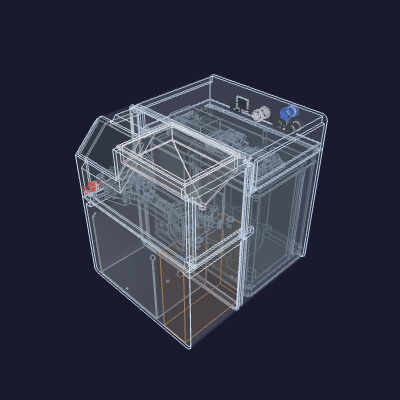
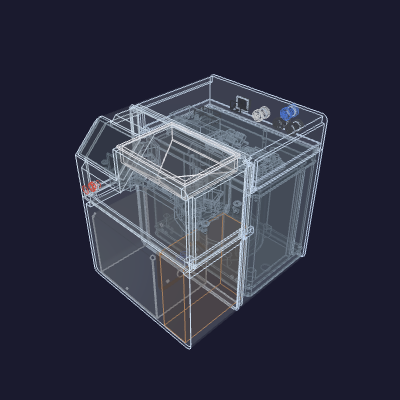
enclosure: source-select assembly +15 aft, clear of the display — the rise reaches the funnel

Changed region(s): [[0.24, 0.33, 0.6, 0.63]]

diff --git a/hardware/printed-parts/enclosure/enclosure-assembly/scorecard.py b/hardware/printed-parts/enclosure/enclosure-assembly/scorecard.py
@@ -226,15 +226,14 @@ PLACEMENT_RULES = {
     "compressor-shroud": [("y-", 1.0), ("z-", 4.0), ("x-", 15.0)],
     # "Condenser is front-right on the floor" (inset one corner-rib chain off the right wall).
     "condenser+fan":     [("y-", 1.0), ("z-", 4.0), ("x+", 15.0)],
-    # "The assembly rides the rise's physical cap": its front tall wall tops one
-    # clearance under the display PCB body's low-front underside — the exact-gap bound
-    # that pins the raised height. Its relation to the funnel above is the open nesting
-    # question (the display cap stops V-A's edge short of the ramp) and carries no rule
-    # until it is resolved.
-    "source-select-assembly": [("near", "display", 1.5)],
+    # "The assembly is pinned between funnel and display": raised until the rotated
+    # funnel's loft caps the rise one clearance over the east bank's wall tops, and
+    # shifted aft only as far as the display body's low-front underside demands — both
+    # exact-gap bounds on the real solids.
+    "source-select-assembly": [("near", "hopper-funnel", 1.5), ("near", "display", 1.5)],
     # "The funnel rides the top wall" — brim top one brim thickness + one wall above the
-    # interior ceiling.
-    "hopper-funnel":     [("z+", 6.1)],
+    # interior ceiling — "and its loft caps the assembly's rise".
+    "hopper-funnel":     [("z+", 6.1), ("near", "source-select-assembly", 1.5)],
 }
 
 
@@ -362,20 +361,21 @@ PORTS = [
     # feeding V-B by tube (segment 4). Defined in the funnel's own frame
     # (hopper_funnel.drain_local = (neck_dx, 0, −drop)) carried through the placement's
     # FUNNEL_ROT + FUNNEL_CX/CY (brim on the box top), so it rides the part. Rotated 180°,
-    # the spout descends WEST of centre, over the assembly's central valley; the drain sits
-    # ~16 mm above V-B-I's collet — segment 4 is the gravity drain + air-purge path, and the
-    # tube from here to V-B must only fall.
-    _p("drain", "hopper-funnel", "fluid", (139.75, 63.3, 255.72), "z-", 6.35, "V-B-I by falling tube — segment 4 (hopper gate → shared source)", "funnel drain; spout exit annulus (`spout_id` 6.35 bore), bottom face of the spout tube"),
+    # the spout descends WEST of centre, over the assembly's central valley. At the raised
+    # assembly height the drain sits only ~1 mm above V-B-I's collet — segment 4 is the
+    # gravity drain + air-purge path and must only fall, so its fall budget is nearly
+    # exhausted here (unresolved tension).
+    _p("drain", "hopper-funnel", "fluid", (139.75, 63.3, 255.72), "z-", 6.35, "V-B-I by tube — segment 4 (hopper gate → shared source; must fall)", "funnel drain; spout exit annulus (`spout_id` 6.35 bore), bottom face of the spout tube"),
     # Source-select assembly (Tray 1) — the manifold's four boundary connectors: the outlet
     # elbows' free collets, all facing +Z, measured off the built assembly
     # (source_select_tray.build_assembly() top-opening centres, local (±128.33, ±36.73, 30.86))
     # carried through the 180° flip + SRC_SEL_POS. V-A/V-B east (under the funnel's high
     # ramp), V-C/V-D west. On-tray plumbing (segments 3/5/6/7/8 — valve↔divider tubes) is
     # interior to the assembly and carries no port here.
-    _p("V-A-I", "source-select-assembly", "fluid", (275.33, 26.57, 239.76),  "z+", 6.35, "tap-water chain (bulkhead-water → BFP, deferred) — segment 2 (pressurized; length-tolerant)", "JG elbow collet, 1/4\" tube, facing up"),
-    _p("V-B-I", "source-select-assembly", "fluid", (275.33, 100.03, 239.76), "z+", 6.35, "hopper-funnel drain by falling tube — segment 4", "JG elbow collet, 1/4\" tube, facing up"),
-    _p("V-C-O", "source-select-assembly", "fluid", (18.67, 26.57, 239.76),   "z+", 6.35, "Y-C-1 (Tray 3 pump-inlet tees, deferred) — segment 9", "JG elbow collet, 1/4\" tube, facing up"),
-    _p("V-D-O", "source-select-assembly", "fluid", (18.67, 100.03, 239.76),  "z+", 6.35, "Y-F-1 (Tray 3 pump-inlet tees, deferred) — segment 19", "JG elbow collet, 1/4\" tube, facing up"),
+    _p("V-A-I", "source-select-assembly", "fluid", (275.33, 41.57, 254.66),  "z+", 6.35, "tap-water chain (bulkhead-water → BFP, deferred) — segment 2 (pressurized; length-tolerant)", "JG elbow collet, 1/4\" tube, facing up"),
+    _p("V-B-I", "source-select-assembly", "fluid", (275.33, 115.03, 254.66), "z+", 6.35, "hopper-funnel drain by tube — segment 4 (the drain sits ~1 mm above this collet)", "JG elbow collet, 1/4\" tube, facing up"),
+    _p("V-C-O", "source-select-assembly", "fluid", (18.67, 41.57, 254.66),   "z+", 6.35, "Y-C-1 (Tray 3 pump-inlet tees, deferred) — segment 9", "JG elbow collet, 1/4\" tube, facing up"),
+    _p("V-D-O", "source-select-assembly", "fluid", (18.67, 115.03, 254.66),  "z+", 6.35, "Y-F-1 (Tray 3 pump-inlet tees, deferred) — segment 19", "JG elbow collet, 1/4\" tube, facing up"),
     # Waveshare display — its data/power connector is NOT in the imported STEP (only the four
     # corner mounts are), so this one harness port is placed provisionally on the interior (+Y)
     # back face at the PCB centre. A viewer pick would pin it exactly.

diff --git a/hardware/printed-parts/enclosure/enclosure-assembly/_contents.py b/hardware/printed-parts/enclosure/enclosure-assembly/_contents.py
@@ -65,14 +65,15 @@ Strata, floor to ceiling:
              Tray 1 of the valve manifold (V-A, V-B, Y-A, Y-B, V-C, V-D on
              a printed tray, outlet elbows up) — hung spanning the front
              width, flipped so V-A/V-B and their up-facing inlet collets
-             sit on the EAST end under the funnel's high ramp, and raised
-             to the rise's physical cap: its front tall wall tops ride one
-             clearance under the display PCB body's low-front underside.
-             The rotated funnel's spout descends over the central valley;
-             the drain still falls to V-B's collet for the segment-4
-             gravity/purge tube. The compressor and condenser tops below
-             are open (the deferred water deck returns there). Holder TBD
-             (held).
+             sit on the EAST end under the funnel's high ramp, shifted aft
+             clear of the display body's low-front band, and raised until
+             the rotated funnel's loft caps the rise one clearance over
+             the east bank's wall tops. The spout descends over the
+             central valley; at this height the drain sits only a hair
+             above V-B's collet — the segment-4 gravity/purge fall is
+             nearly exhausted (unresolved tension). The compressor and
+             condenser tops below are open (the deferred water deck
+             returns there). Holder TBD (held).
   * Zone B (the band above the cold core): the electronics shelf lying
              flat on the foam-cap top in the band's front half — power
              assembly at −X, PCBA at +X, the DC distribution block behind
@@ -139,17 +140,15 @@ FUNNEL_ROT = 180.0
 # mounting plane) in world, rotated 180° about Z. The flip puts V-A/V-B —
 # and their up-facing inlet collets — on the EAST end under the funnel's
 # high ramp, V-C/V-D west; the pressurized tap line (segment 2) takes the
-# long west run to V-A. The height is the rise's physical cap: the front
-# tall wall's top rides one clearance under the display PCB body's
-# low-front underside (the scorecard's `near display` rule pins it). The
-# funnel's rotated spout descends over the central valley; its ramp stands
-# off V-A's top-box edge by the gap the display cap leaves (the open
-# nesting question — closing it means moving the assembly out of the
-# display's low-front band, deepening the funnel to the divider crowns, or
-# reshaping a part). In X the assembly (elbow tip to elbow tip) spans the
-# interior wall-to-wall; its +X elbows stop one wall clearance short of
-# the foam's edge.
-SRC_SEL_POS = (147.0, 63.3, 208.9)
+# long west run to V-A. Shifted aft of the funnel's centreline by the
+# minimum that walks its front tall wall out of the display PCB body's
+# low-front underside band, and raised until the rotated funnel's loft
+# caps the rise one clearance over the east bank's wall tops — pinned
+# between funnel above and display ahead (the scorecard's two `near`
+# rules). In X the assembly (elbow tip to elbow tip) spans the interior
+# wall-to-wall; its +X elbows stop one wall clearance short of the foam's
+# edge.
+SRC_SEL_POS = (147.0, 78.3, 223.8)
 
 # Front block (Zones C/D) Y depth — the cold core (Zone A) seats behind it.
 # With the floor parts raised clear of the seam lip, the cold core pulls in to

diff --git a/hardware/printed-parts/enclosure/enclosure-assembly/scorecard_selftest.py b/hardware/printed-parts/enclosure/enclosure-assembly/scorecard_selftest.py
@@ -117,19 +117,23 @@ def test_placement() -> None:
     check("a drifted component reads as NOT placed", bool(drow) and not drow[1],
           "x- rule should break")
 
-    # The part-to-part `near` form: source-select-assembly carries one `near` rule
-    # (display gap ≤ 1.5 mm). Display 1 away = placed; 5 away = drifted; absent = flagged.
-    print("placed (part-to-part `near` rule holds)")
+    # The part-to-part `near` form: source-select-assembly is pinned by two `near` rules
+    # (funnel + display, each ≤ 1.5 mm). Both 1 away = placed; funnel drifted = flagged;
+    # an absent neighbor = flagged.
+    print("placed (part-to-part `near` rules hold)")
     near_ok = sc.placement_audit({"source-select-assembly": box(0, 0, 0),
-                                  "display": box(0, 0, 11.0)}, inner)
+                                  "hopper-funnel": box(0, 0, 11.0),
+                                  "display": box(11.0, 0, 0)}, inner)
     nrow = next((r for r in near_ok if r[0] == "source-select-assembly"), None)
-    check("a component within its near gap reads as placed", bool(nrow) and nrow[1])
+    check("a component within its near gaps reads as placed", bool(nrow) and nrow[1])
     near_far = sc.placement_audit({"source-select-assembly": box(0, 0, 0),
-                                   "display": box(0, 0, 15.0)}, inner)
+                                   "hopper-funnel": box(0, 0, 15.0),
+                                   "display": box(11.0, 0, 0)}, inner)
     frow = next((r for r in near_far if r[0] == "source-select-assembly"), None)
     check("a component drifted off its neighbor reads as NOT placed", bool(frow) and not frow[1],
-          "near display rule should break")
-    near_missing = sc.placement_audit({"source-select-assembly": box(0, 0, 0)}, inner)
+          "near hopper-funnel rule should break")
+    near_missing = sc.placement_audit({"source-select-assembly": box(0, 0, 0),
+                                       "hopper-funnel": box(0, 0, 11.0)}, inner)
     mrow = next((r for r in near_missing if r[0] == "source-select-assembly"), None)
     check("a near rule against an absent neighbor reads as NOT placed", bool(mrow) and not mrow[1],
           "missing display must not pass")
